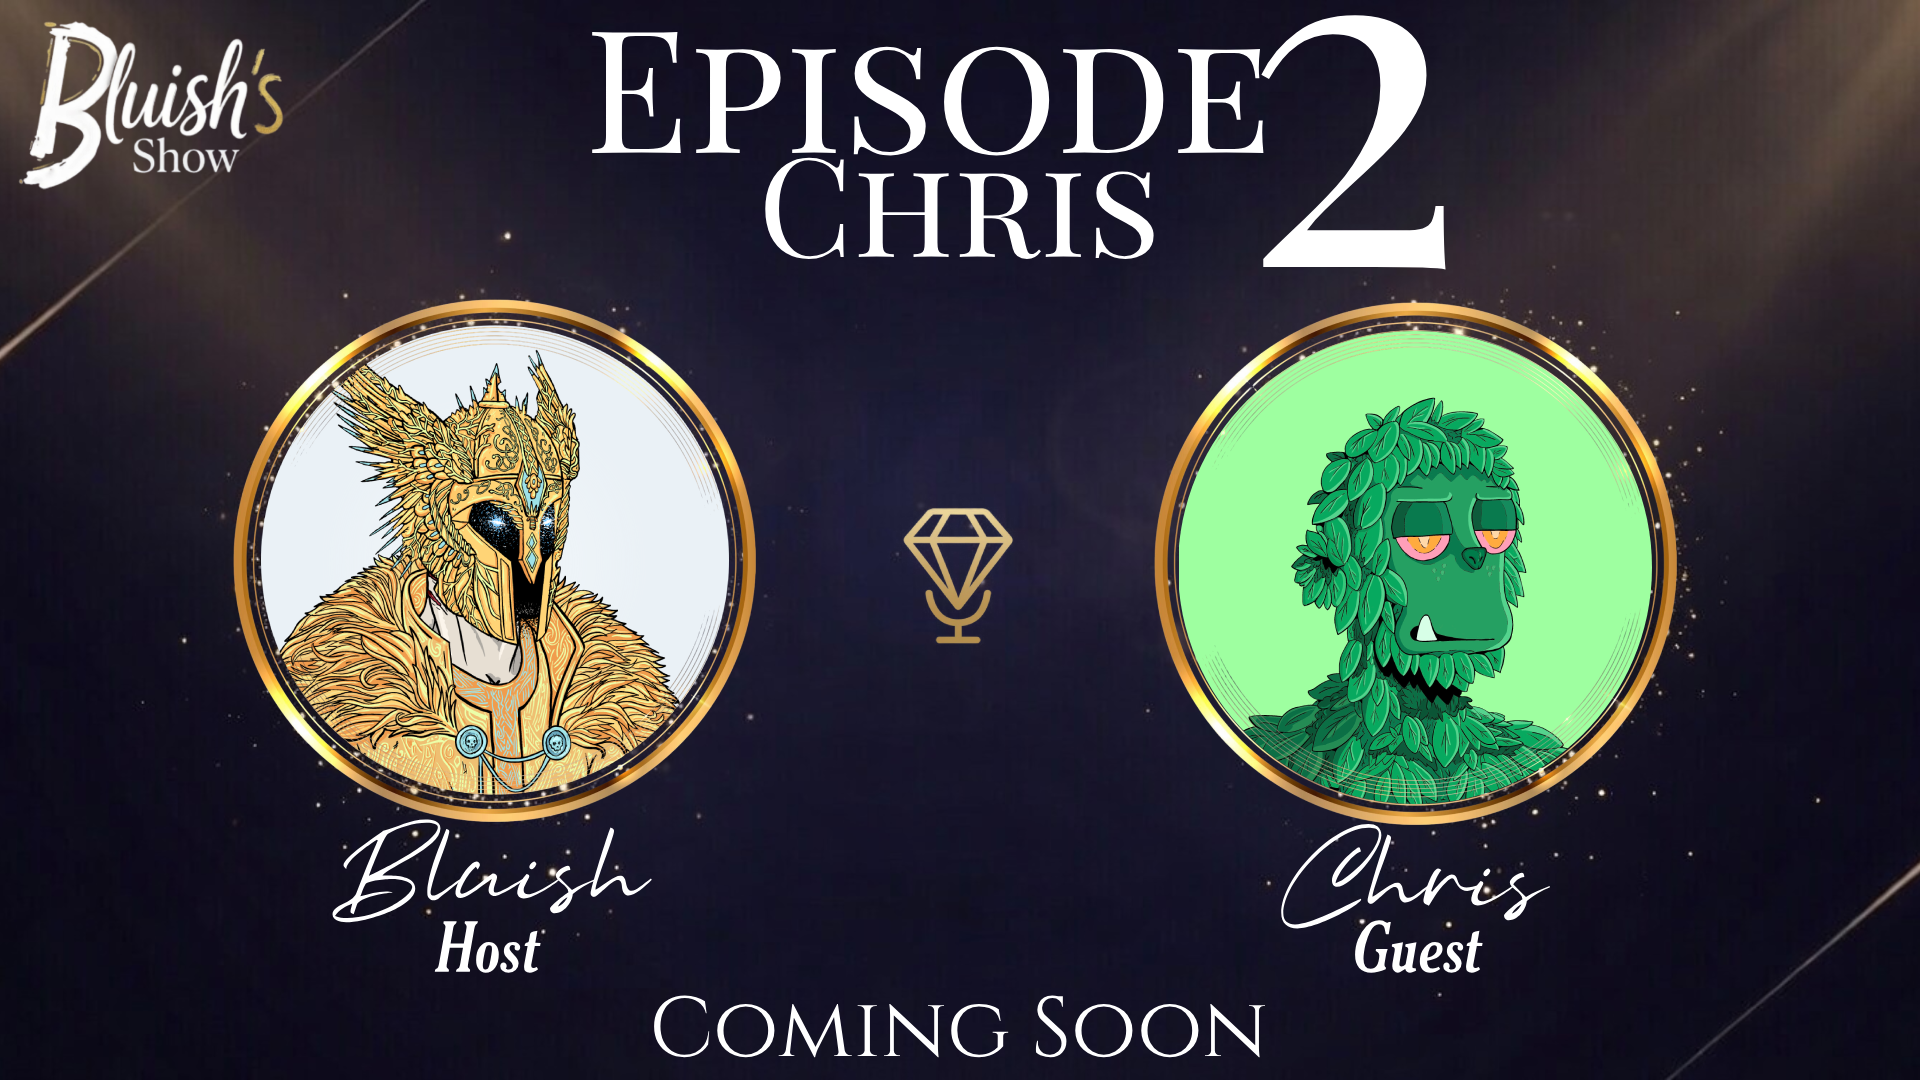
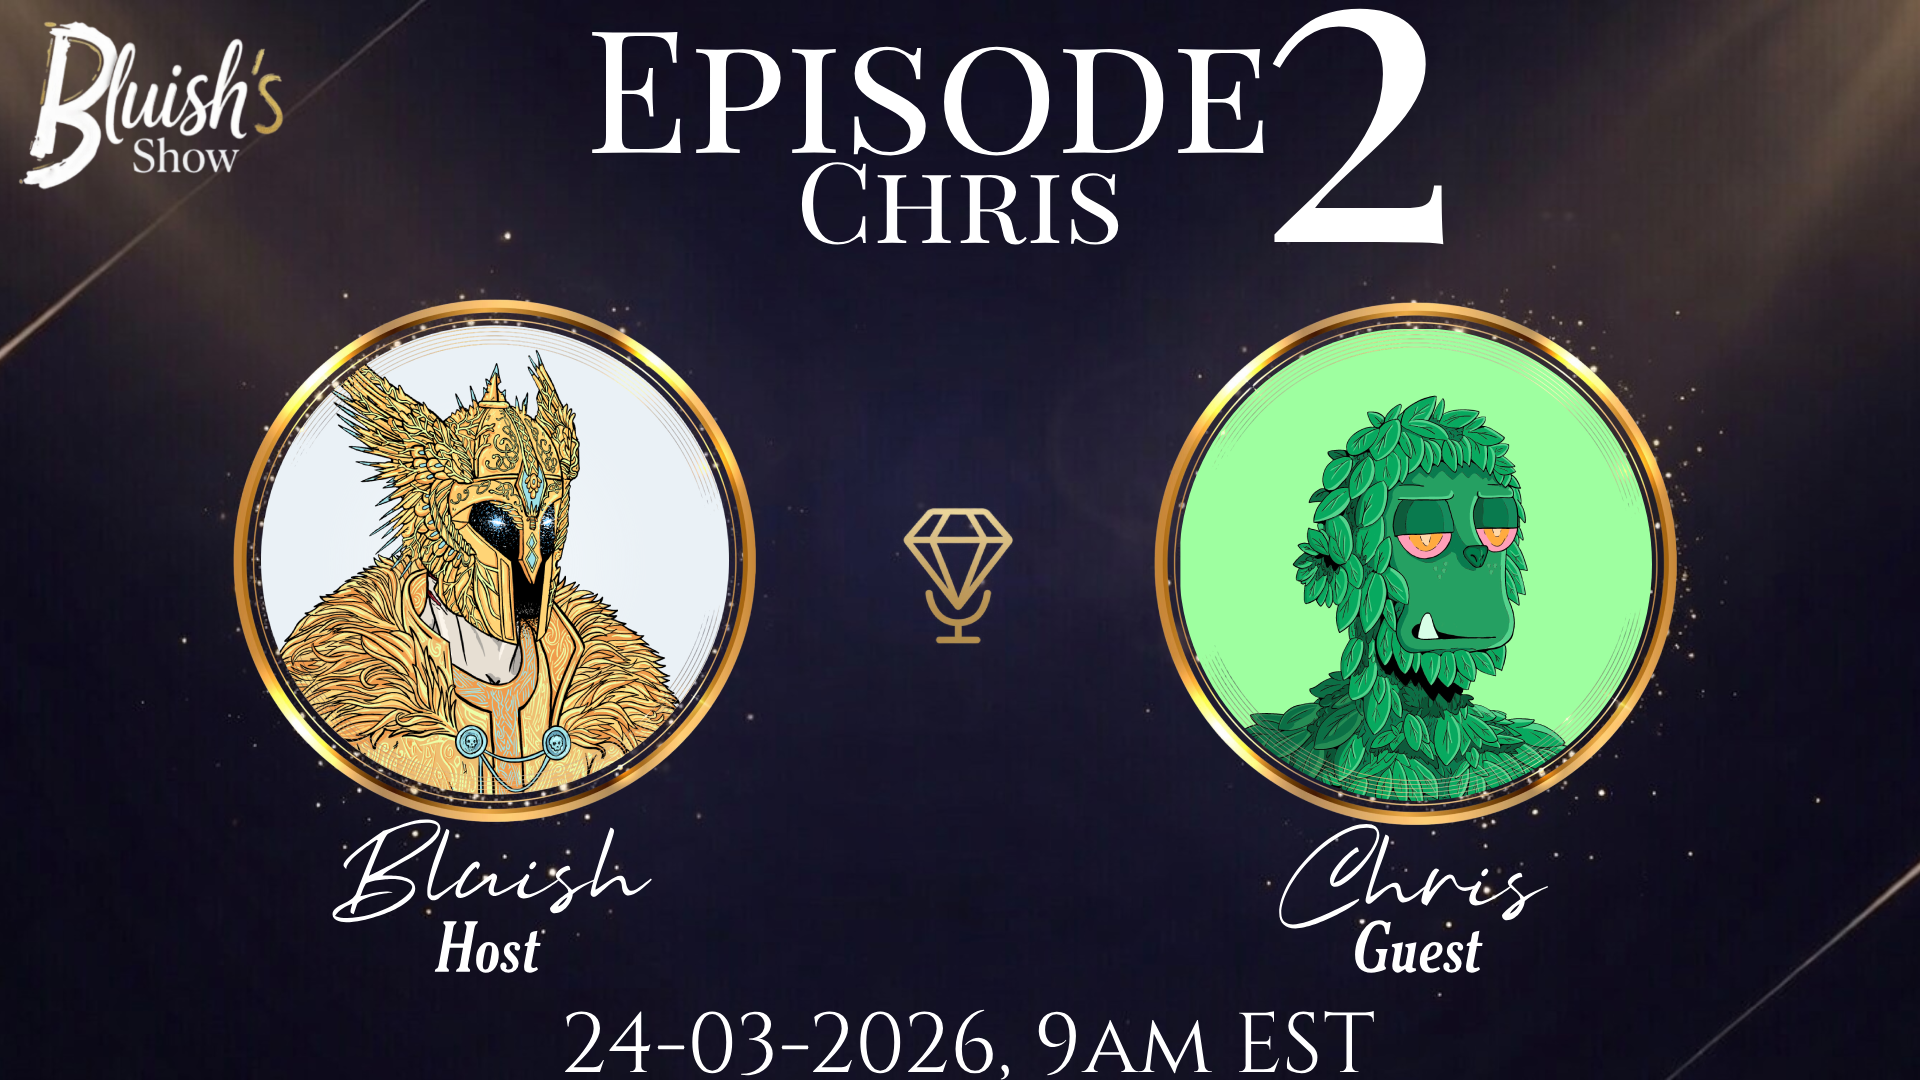
done

diff --git a/index.html b/index.html
@@ -91,9 +91,9 @@
     <div class="card-wrapper">
 <div class="card upcoming-card">
             <img src="./templates/episode2.png" alt="Episode 2" loading="lazy">
-          <h3>Episode 2 – ft. Chris</h3>
-          <p>Details coming Soon</p>
-          <span class="button disabled">Coming Soon</span>
+          <h3>Episode 2 – Chris</h3>
+          <p>A dive into the Story of Chris Taylor</p>
+          <span class="button disabled">March 24</span>
 <!--
   <p class="local-time-text">
     Show begins at your local time: <span class="local-time"></span>
